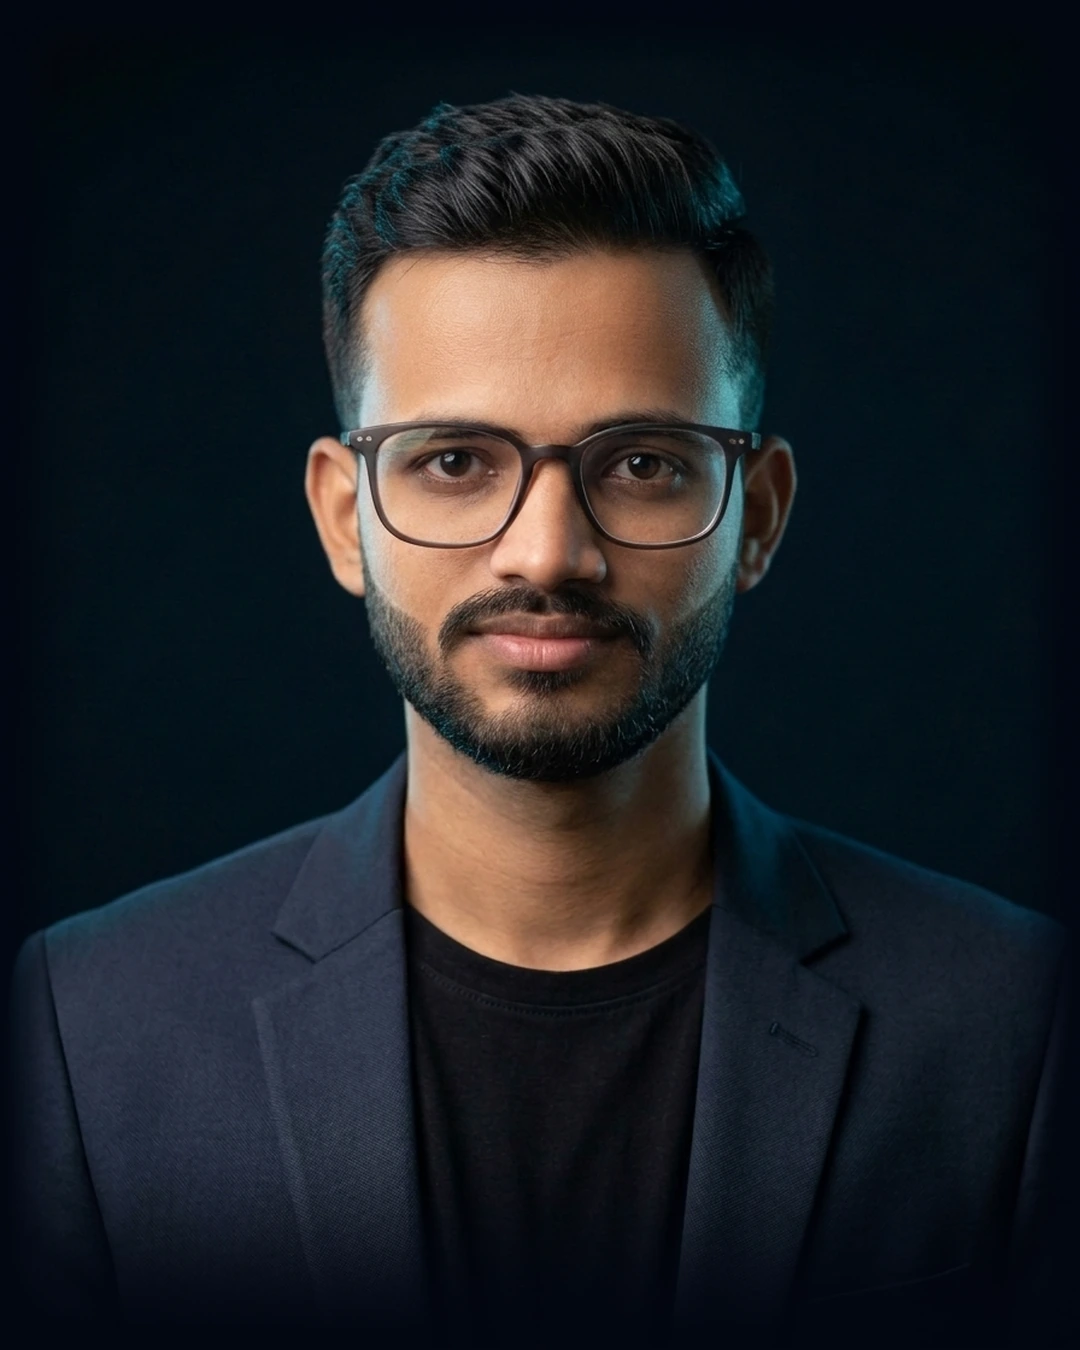
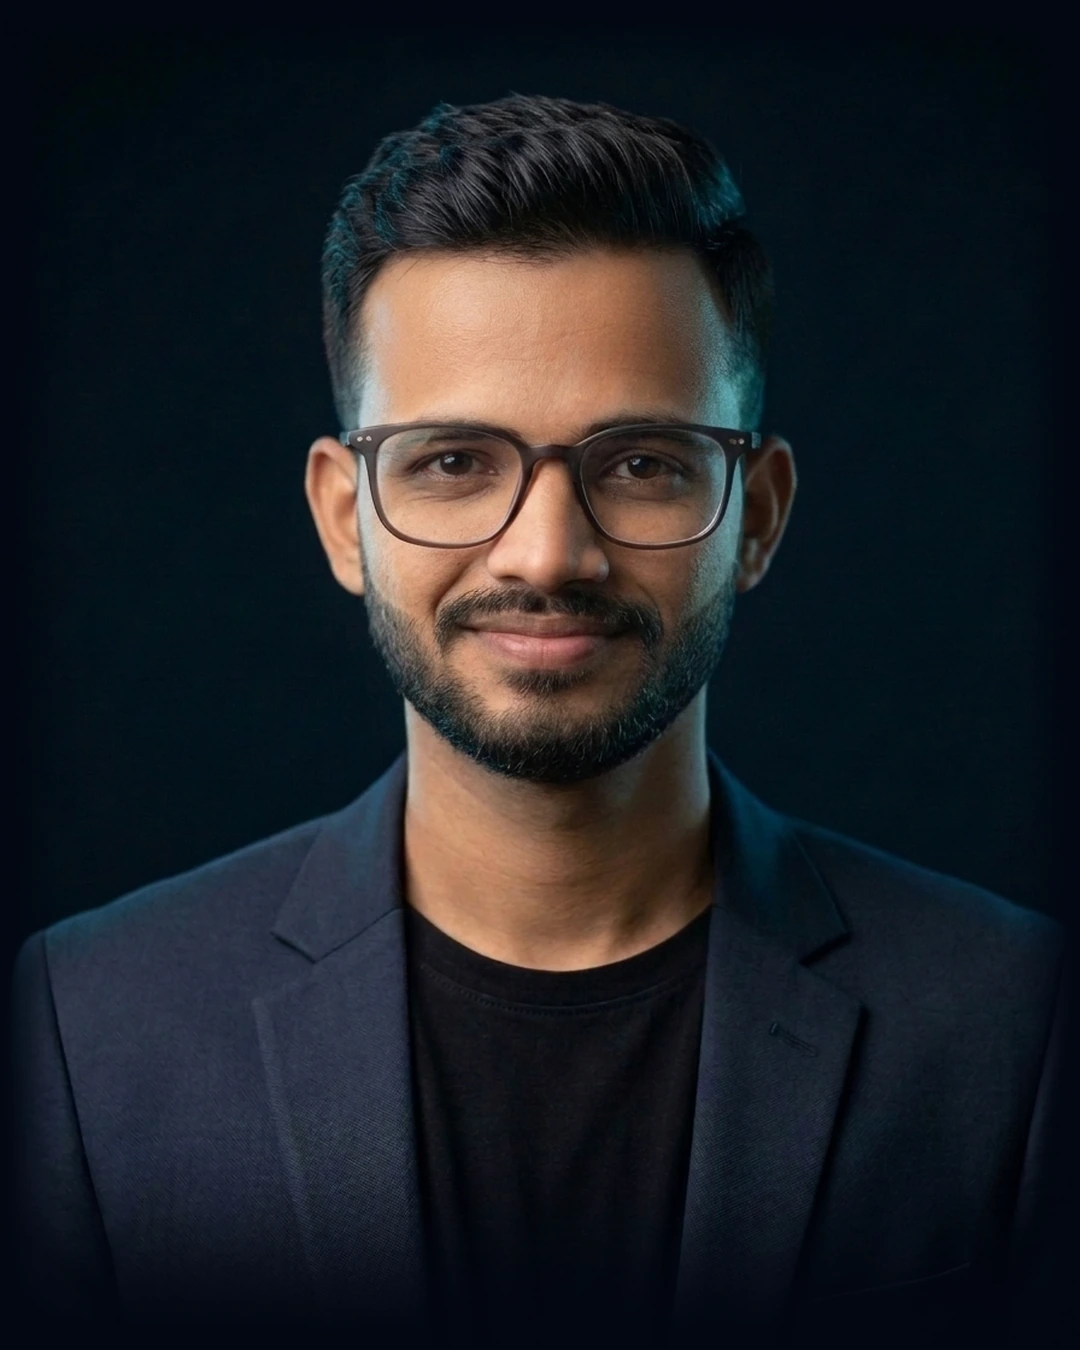
style: use warm smiling studio portrait for Recruiter Mode and preserve focused portrait for Hacker Mode (v5)

Changed region(s): [[0.3361, 0.4044, 0.55, 0.56], [0.3667, 0.3111, 0.4583, 0.3733], [0.55, 0.4044, 0.6111, 0.4978]]

diff --git a/index.html b/index.html
@@ -14,22 +14,22 @@
     <meta property="og:title" content="Abhishek Kumar | Machine Learning &amp; AI Engineer">
     <meta property="og:description" content="ML/AI engineer with 2.5+ years building production NLP, speech, computer vision, and RAG systems.">
     <meta property="og:url" content="https://abhi-portfolio-green.vercel.app/">
-    <meta property="og:image" content="https://abhi-portfolio-green.vercel.app/images/og-cover.jpg?v=4">
+    <meta property="og:image" content="https://abhi-portfolio-green.vercel.app/images/og-cover.jpg?v=5">
     <meta property="og:image:width" content="1200">
     <meta property="og:image:height" content="630">
     <meta property="og:image:alt" content="Abhishek Kumar &mdash; Machine Learning and AI Engineer">
     <meta name="twitter:card" content="summary_large_image">
     <meta name="twitter:title" content="Abhishek Kumar | Machine Learning &amp; AI Engineer">
     <meta name="twitter:description" content="ML/AI engineer building production NLP, speech, computer vision, and RAG systems.">
-    <meta name="twitter:image" content="https://abhi-portfolio-green.vercel.app/images/og-cover.jpg?v=4">
+    <meta name="twitter:image" content="https://abhi-portfolio-green.vercel.app/images/og-cover.jpg?v=5">
 
-    <link rel="icon" type="image/x-icon" href="images/favicon.ico?v=4">
-    <link rel="apple-touch-icon" href="images/apple-touch-icon.png?v=4">
+    <link rel="icon" type="image/x-icon" href="images/favicon.ico?v=5">
+    <link rel="apple-touch-icon" href="images/apple-touch-icon.png?v=5">
 
-    <link rel="preload" as="image" href="images/background.webp?v=4" media="(min-width: 821px)" fetchpriority="high">
-    <link rel="preload" as="image" href="images/mobile-bg.webp?v=4" media="(max-width: 820px)" fetchpriority="high">
+    <link rel="preload" as="image" href="images/background.webp?v=5" media="(min-width: 821px)" fetchpriority="high">
+    <link rel="preload" as="image" href="images/mobile-bg.webp?v=5" media="(max-width: 820px)" fetchpriority="high">
     <link rel="preload" as="font" type="font/woff2" href="fonts/montserrat-latin-variable.woff2" crossorigin>
-    <link rel="stylesheet" href="style.css?v=4">
+    <link rel="stylesheet" href="style.css?v=5">
     <script>document.documentElement.classList.add('js');</script>
 
     <script type="application/ld+json">
@@ -39,7 +39,7 @@
         "name": "Abhishek Kumar",
         "jobTitle": "Machine Learning & AI Engineer",
         "url": "https://abhi-portfolio-green.vercel.app/",
-        "image": "https://abhi-portfolio-green.vercel.app/images/og-cover.jpg?v=4",
+        "image": "https://abhi-portfolio-green.vercel.app/images/og-cover.jpg?v=5",
         "email": "mailto:abhishekkumarnwd71@gmail.com",
         "telephone": "+91-94318-53882",
         "address": {
@@ -104,7 +104,7 @@
       <div class="container">
         <nav aria-label="Main navigation">
           <a class="logo-link" href="#header" aria-label="Abhishek Kumar &mdash; back to top">
-            <img class="logo" src="images/logo.svg?v=4" alt="Abhishek Kumar" width="170" height="42">
+            <img class="logo" src="images/logo.svg?v=5" alt="Abhishek Kumar" width="170" height="42">
           </a>
 
           <ul id="sidemenu">

diff --git a/hacker.html b/hacker.html
@@ -15,17 +15,17 @@
     <meta property="og:title" content="Abhishek Kumar // AI/ML Engineer &mdash; Hacker Mode">
     <meta property="og:description" content="A fully interactive, terminal-inspired portfolio: 3D neural hero, case files, and production AI systems.">
     <meta property="og:url" content="https://abhi-portfolio-green.vercel.app/hacker">
-    <meta property="og:image" content="https://abhi-portfolio-green.vercel.app/images/og-cover.jpg?v=4">
+    <meta property="og:image" content="https://abhi-portfolio-green.vercel.app/images/og-cover.jpg?v=5">
     <meta name="twitter:card" content="summary_large_image">
     <meta name="twitter:title" content="Abhishek Kumar // AI/ML Engineer &mdash; Hacker Mode">
     <meta name="twitter:description" content="A fully interactive, terminal-inspired portfolio: 3D neural hero, case files, and production AI systems.">
-    <meta name="twitter:image" content="https://abhi-portfolio-green.vercel.app/images/og-cover.jpg?v=4">
+    <meta name="twitter:image" content="https://abhi-portfolio-green.vercel.app/images/og-cover.jpg?v=5">
 
-    <link rel="icon" type="image/x-icon" href="images/favicon.ico?v=4">
-    <link rel="apple-touch-icon" href="images/apple-touch-icon.png?v=4">
+    <link rel="icon" type="image/x-icon" href="images/favicon.ico?v=5">
+    <link rel="apple-touch-icon" href="images/apple-touch-icon.png?v=5">
     <link rel="preload" as="font" type="font/woff2" href="fonts/jetbrains-mono-latin-variable.woff2" crossorigin>
-    <link rel="preload" as="image" href="images/mobile-bg.webp?v=4" fetchpriority="high">
-    <link rel="stylesheet" href="hacker.css?v=4">
+    <link rel="preload" as="image" href="images/hacker-portrait.webp?v=5" fetchpriority="high">
+    <link rel="stylesheet" href="hacker.css?v=5">
     <script>document.documentElement.classList.add('js');</script>
 
     <script type="application/ld+json">
@@ -36,7 +36,7 @@
         "jobTitle": "AI/ML Engineer",
         "description": "AI/ML engineer building production speech, vision, and generative AI systems.",
         "url": "https://abhi-portfolio-green.vercel.app/",
-        "image": "https://abhi-portfolio-green.vercel.app/images/og-cover.jpg?v=4",
+        "image": "https://abhi-portfolio-green.vercel.app/images/og-cover.jpg?v=5",
         "email": "mailto:abhishekkumarnwd71@gmail.com",
         "telephone": "+91-94318-53882",
         "address": {
@@ -227,7 +227,7 @@
                   <span>ID // AK-2026</span><span class="live"><i></i> LIVE</span>
                 </div>
                 <div class="operator__portrait">
-                  <img src="images/mobile-bg.webp?v=4" alt="Portrait of Abhishek Kumar" width="1080" height="1350" fetchpriority="high">
+                  <img src="images/hacker-portrait.webp?v=5" alt="Portrait of Abhishek Kumar" width="1080" height="1350" fetchpriority="high">
                   <div class="operator__scan" aria-hidden="true"></div>
                   <div class="operator__mesh" aria-hidden="true"></div>
                   <span class="hud-tag hud-tag--a" aria-hidden="true">VOICE_ID // 94%</span>

diff --git a/404.html b/404.html
@@ -7,9 +7,9 @@
     <meta name="description" content="That page could not be found. Return to Abhishek Kumar's portfolio.">
     <meta name="robots" content="noindex, follow">
     <meta name="theme-color" content="#030712">
-    <link rel="icon" type="image/x-icon" href="images/favicon.ico?v=4">
-    <link rel="apple-touch-icon" href="images/apple-touch-icon.png?v=4">
-    <link rel="stylesheet" href="style.css?v=4">
+    <link rel="icon" type="image/x-icon" href="images/favicon.ico?v=5">
+    <link rel="apple-touch-icon" href="images/apple-touch-icon.png?v=5">
+    <link rel="stylesheet" href="style.css?v=5">
     <style>
       .nf {
         min-height: 100vh;

diff --git a/style.css b/style.css
@@ -202,7 +202,7 @@ main:focus-visible {
       rgba(3, 7, 18, 0.14) 76%,
       rgba(3, 7, 18, 0.18) 100%
     ),
-    url("images/background.webp?v=4");
+    url("images/background.webp?v=5");
   background-position: center, right center;
   background-repeat: no-repeat, no-repeat;
   background-size: cover, cover;
@@ -1674,7 +1674,7 @@ a.contact-item:hover {
         #030712 54%,
         #030712 100%
       ),
-      url("images/mobile-bg.webp?v=4");
+      url("images/mobile-bg.webp?v=5");
     background-position: center, center 62px;
     background-size: cover, min(100%, 440px) auto;
     background-repeat: no-repeat, no-repeat;
